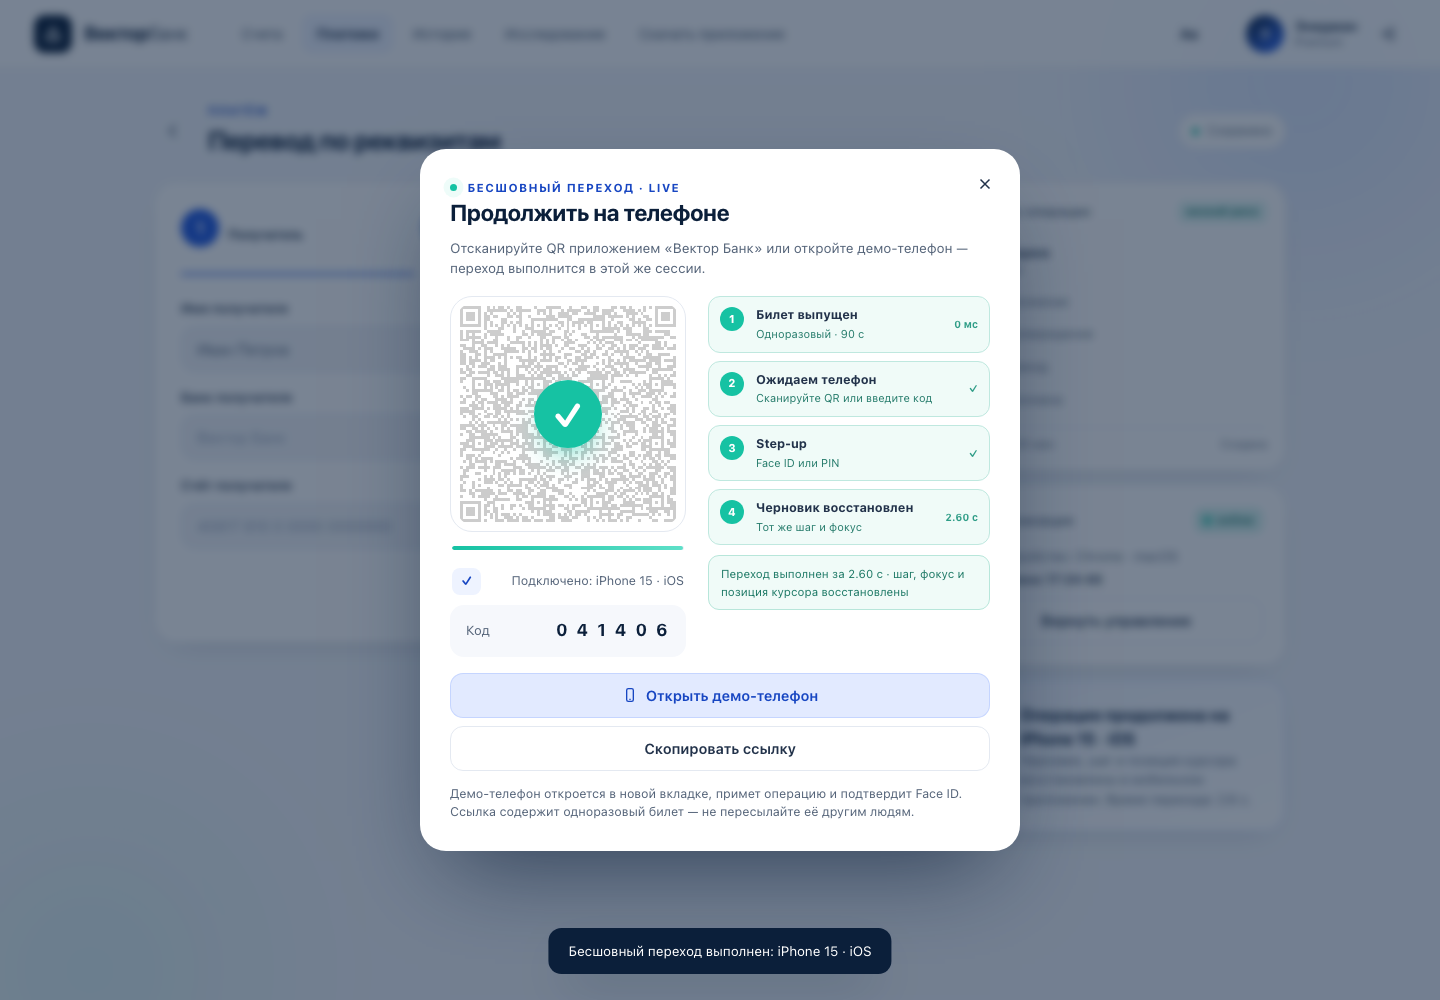
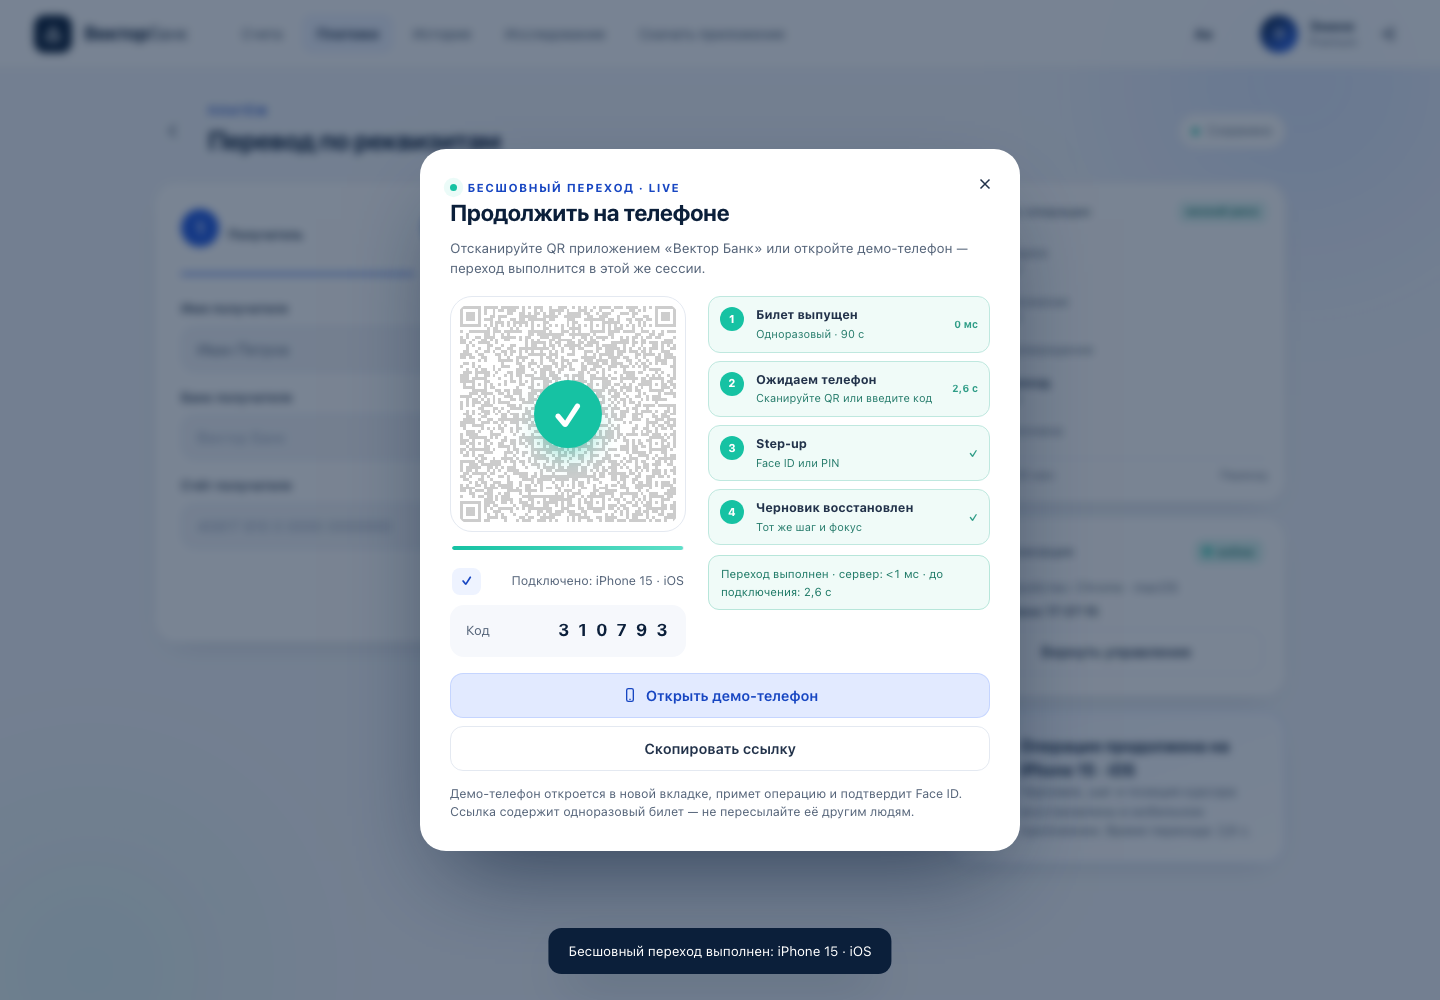
feat(api,web): метрики по частям, стадия «Переход» и состояние демо на диске
- handoff: серверное время подхвата и время до подключения показываются раздельно
- process: WS-события передают processView, карточка и карта процесса обновляются на стадии «Переход»
- store: STATE_FILE — снимок памяти на диск, черновики и сессии переживают рестарт без Redis
- demo.sh: STATE_FILE по умолчанию, .env.example и README обновлены

diff --git a/apps/api/src/store.js b/apps/api/src/store.js
@@ -1,4 +1,6 @@
 import crypto from 'node:crypto';
+import fs from 'node:fs';
+import path from 'node:path';
 import { EventEmitter } from 'node:events';
 import Redis from 'ioredis';
 
@@ -40,8 +42,10 @@ function alive(record) {
 }
 
 class MemoryStore {
-  constructor() {
-    this.kind = 'memory';
+  constructor({ stateFile = '' } = {}) {
+    this.kind = stateFile ? 'memory+disk' : 'memory';
+    this.stateFile = stateFile;
+    this.persistTimer = null;
     this.sessions = new Map();
     this.drafts = new Map();
     this.tickets = new Map();
@@ -65,6 +69,108 @@ class MemoryStore {
         }
       }
     });
+    if (this.stateFile) {
+      this.restoreState();
+      this.wrapPersistence();
+    }
+  }
+
+  /* Демо-персистентность: снимок памяти на диск, чтобы черновики
+     переживали перезапуск без Redis/Docker. */
+  wrapPersistence() {
+    const methods = [
+      'setSession',
+      'putDraft',
+      'putRecipient',
+      'deleteRecipient',
+      'putIdempotency',
+      'putTicket',
+      'consumeTicket',
+      'putCode',
+      'deleteCode',
+      'markRedeemed',
+      'appendAudit',
+      'appendResearch',
+    ];
+    for (const name of methods) {
+      const original = this[name].bind(this);
+      this[name] = (...args) => {
+        const result = original(...args);
+        if (result && typeof result.then === 'function') {
+          return result.then((value) => {
+            this.persistState();
+            return value;
+          });
+        }
+        this.persistState();
+        return result;
+      };
+    }
+  }
+
+  persistState() {
+    if (!this.stateFile || this.persistTimer) return;
+    this.persistTimer = setTimeout(() => {
+      this.persistTimer = null;
+      this.writeState();
+    }, 250);
+    this.persistTimer.unref?.();
+  }
+
+  writeState() {
+    if (!this.stateFile) return;
+    const snapshot = {
+      v: 1,
+      at: new Date().toISOString(),
+      sessions: [...this.sessions],
+      drafts: [...this.drafts],
+      tickets: [...this.tickets],
+      codes: [...this.codes],
+      redeemed: [...this.redeemed],
+      recipients: [...this.recipients],
+      idempotency: [...this.idempotency],
+      audit: this.audit,
+      research: this.research,
+    };
+    try {
+      fs.mkdirSync(path.dirname(this.stateFile), { recursive: true });
+      const tmp = `${this.stateFile}.tmp`;
+      fs.writeFileSync(tmp, JSON.stringify(snapshot));
+      fs.renameSync(tmp, this.stateFile);
+    } catch {
+      /* диск недоступен — демо продолжает работать в памяти */
+    }
+  }
+
+  restoreState() {
+    try {
+      if (!fs.existsSync(this.stateFile)) return;
+      const data = JSON.parse(fs.readFileSync(this.stateFile, 'utf8'));
+      const restore = (key, target) => {
+        const entries = Array.isArray(data[key]) ? data[key] : [];
+        for (const [id, record] of entries) {
+          if (record && (record.exp === 0 || record.exp > now())) target.set(id, record);
+        }
+      };
+      restore('sessions', this.sessions);
+      restore('drafts', this.drafts);
+      restore('tickets', this.tickets);
+      restore('codes', this.codes);
+      restore('redeemed', this.redeemed);
+      restore('recipients', this.recipients);
+      restore('idempotency', this.idempotency);
+      this.audit = Array.isArray(data.audit) ? data.audit : [];
+      this.research = Array.isArray(data.research) ? data.research : [];
+      this.userDrafts = new Map();
+      for (const [id, record] of this.drafts) {
+        const draft = record?.v;
+        if (!draft?.userId) continue;
+        if (!this.userDrafts.has(draft.userId)) this.userDrafts.set(draft.userId, new Set());
+        this.userDrafts.get(draft.userId).add(id);
+      }
+    } catch {
+      /* повреждённый снимок игнорируем — стартуем с чистого состояния */
+    }
   }
 
   async connect() {
@@ -74,6 +180,11 @@ class MemoryStore {
   async close() {
     this.handlers.clear();
     this.bus.removeAllListeners();
+    if (this.persistTimer) {
+      clearTimeout(this.persistTimer);
+      this.persistTimer = null;
+    }
+    this.writeState();
   }
 
   subscribe(handler) {
@@ -510,7 +621,7 @@ class RedisStore {
   }
 }
 
-export async function createStore({ redisUrl, logger } = {}) {
+export async function createStore({ redisUrl, stateFile = '', logger } = {}) {
   if (redisUrl) {
     try {
       const store = await new RedisStore(redisUrl).connect();
@@ -520,6 +631,7 @@ export async function createStore({ redisUrl, logger } = {}) {
       logger?.warn({ err: error.message }, 'redis unavailable, falling back to in-memory store');
     }
   }
-  logger?.info('state store: in-memory (demo mode)');
-  return new MemoryStore().connect();
+  if (stateFile) logger?.info({ stateFile }, 'state store: in-memory + disk snapshot');
+  else logger?.info('state store: in-memory (demo mode)');
+  return new MemoryStore({ stateFile }).connect();
 }

diff --git a/apps/web/app.js b/apps/web/app.js
@@ -974,6 +974,7 @@ function handleEvent(message) {
   const payload = message.payload || {};
   const myDevice = state.session?.deviceId;
   if (message.type === 'draft.updated') {
+    if (payload.process) renderProcess(payload.process);
     const draft = payload.draft;
     if (!draft || draft.id !== state.draft?.id) return;
     state.draft = { ...state.draft, ...draft };
@@ -990,7 +991,9 @@ function handleEvent(message) {
   }
 
   if (message.type === 'handoff.redeemed') {
-    handoffComplete(payload.deviceName);
+    handoffComplete(payload.deviceName, payload.timing || {});
+    if (payload.process) renderProcess(payload.process);
+    loadDrafts();
     const draft = payload.draft;
     if (draft && draft.id === state.draft?.id) {
       state.draft = { ...state.draft, ...draft };
@@ -1103,22 +1106,32 @@ function resetHandoffTimeline() {
   els.modal.querySelector('.modal-card')?.classList.remove('is-complete');
 }
 
-function handoffComplete(deviceName) {
+function handoffComplete(deviceName, timing = {}) {
   if (state.handoffClosing) return;
   state.handoffClosing = true;
   const elapsedMs = state.handoffIssuedAt ? Date.now() - state.handoffIssuedAt : null;
   const elapsedText =
     elapsedMs === null ? '' : elapsedMs < 1000 ? `${Math.round(elapsedMs)} мс` : `${(elapsedMs / 1000).toFixed(2).replace('.', ',')} с`;
+  const syncMs = Number.isFinite(timing?.syncMs) ? Math.max(0, Math.round(timing.syncMs)) : null;
+  const redeemMs = Number.isFinite(timing?.redeemMs) ? Math.max(0, Math.round(timing.redeemMs)) : null;
+  const shortMs = (value) =>
+    value < 1 ? '<1 мс' : value < 1000 ? `${value} мс` : `${(value / 1000).toFixed(1).replace('.', ',')} с`;
   setHandoffPhase('complete');
-  phaseTime('scanned', '✓');
+  phaseTime('scanned', syncMs === null ? '✓' : shortMs(syncMs));
   phaseTime('stepup', '✓');
-  if (elapsedMs !== null) phaseTime('restored', elapsedText);
+  phaseTime('restored', '✓');
   els.handoffStatus.textContent = deviceName ? `Подключено: ${deviceName}` : 'Телефон подключён';
   if (els.handoffTelemetry) {
     els.handoffTelemetry.classList.add('is-done');
-    els.handoffTelemetry.textContent = elapsedMs
-      ? `Переход выполнен за ${elapsedText} · шаг, фокус и позиция курсора восстановлены`
+    const parts = [];
+    if (redeemMs !== null) parts.push(`сервер: ${shortMs(redeemMs)}`);
+    if (syncMs !== null) parts.push(`до подключения: ${shortMs(syncMs)}`);
+    if (elapsedText && syncMs === null) parts.push(`полный цикл: ${elapsedText}`);
+    els.handoffTelemetry.textContent = parts.length
+      ? `Переход выполнен · ${parts.join(' · ')}`
       : 'Переход выполнен · шаг, фокус и позиция курсора восстановлены';
+    els.handoffTelemetry.title =
+      'Сервер — обработка подхвата и восстановления черновика; до подключения — от выпуска билета до Face ID';
   }
   if (els.qrBar) {
     els.qrBar.classList.remove('is-low');
@@ -1160,7 +1173,10 @@ async function checkHandoffStatus() {
   try {
     const data = await api(`/handoff/${state.handoff.ticketId}/status`);
     if (data.status === 'redeemed') {
-      handoffComplete(data.redeemedBy);
+      handoffComplete(data.redeemedBy, {
+        syncMs: data.serverSyncMs,
+        redeemMs: data.serverRedeemMs,
+      });
       toast(`Телефон подключён: ${data.redeemedBy}`);
     }
   } catch {

diff --git a/apps/api/src/app.js b/apps/api/src/app.js
@@ -352,7 +352,11 @@ export async function buildApp(options = {}) {
   });
 
   app.decorate('config', cfg);
-  const store = await createStore({ redisUrl: options.redisUrl ?? cfg.redisUrl, logger: app.log });
+  const store = await createStore({
+    redisUrl: options.redisUrl ?? cfg.redisUrl,
+    stateFile: options.stateFile ?? cfg.stateFile,
+    logger: app.log,
+  });
   app.decorate('store', store);
   const metrics = new Metrics();
   app.decorate('metrics', metrics);
@@ -764,6 +768,7 @@ export async function buildApp(options = {}) {
     await store.publish(auth.sub, 'draft.updated', {
       draft: outcome.draft,
       updatedBy: deviceOf(auth),
+      process: processView(outcome.draft),
     });
     metrics.inc('patches');
     metrics.observeSync(Date.now() - startedAt);
@@ -1036,7 +1041,8 @@ export async function buildApp(options = {}) {
     }
     if (body.code) await store.deleteCode(String(body.code));
 
-    const at = iso();
+    const redeemedAtMs = Date.now();
+    const at = iso(redeemedAtMs);
     const outcome = await store.updateDraft(
       data.opId,
       (draft) => {
@@ -1067,6 +1073,9 @@ export async function buildApp(options = {}) {
       deviceName: auth.deviceName,
       channel: auth.channel,
       at,
+      issuedAt: data.createdAt,
+      syncMs: redeemedAtMs - data.createdAt,
+      redeemMs: redeemedAtMs - startedAt,
     });
     metrics.inc('handoffsRedeemed');
     metrics.observeHandoff(Date.now() - data.createdAt);
@@ -1078,6 +1087,8 @@ export async function buildApp(options = {}) {
       deviceId: auth.deviceId,
       at,
       draft: outcome.draft,
+      process: processView(outcome.draft),
+      timing: { syncMs: redeemedAtMs - data.createdAt, redeemMs: redeemedAtMs - startedAt },
     });
     return {
       draft: draftView(outcome.draft, auth),
@@ -1097,7 +1108,15 @@ export async function buildApp(options = {}) {
     const redeemed = await store.getRedeemed(jti);
     if (redeemed) {
       if (redeemed.userId !== auth.sub) throw new HttpError(403, 'FORBIDDEN', 'Нет доступа');
-      return { status: 'redeemed', redeemedBy: redeemed.deviceName, at: redeemed.at, opId: redeemed.opId };
+      return {
+        status: 'redeemed',
+        redeemedBy: redeemed.deviceName,
+        at: redeemed.at,
+        opId: redeemed.opId,
+        issuedAt: redeemed.issuedAt ? iso(redeemed.issuedAt) : null,
+        serverSyncMs: Number.isFinite(redeemed.syncMs) ? redeemed.syncMs : null,
+        serverRedeemMs: Number.isFinite(redeemed.redeemMs) ? redeemed.redeemMs : null,
+      };
     }
     const ticket = await store.getTicket(jti);
     if (ticket) {

diff --git a/apps/api/src/config.js b/apps/api/src/config.js
@@ -7,6 +7,7 @@ export const config = {
   port: Number(process.env.PORT || 8787),
   host: process.env.HOST || '0.0.0.0',
   redisUrl: process.env.REDIS_URL || '',
+  stateFile: process.env.STATE_FILE || '',
   jwtSecret: process.env.JWT_SECRET || 'dev-only-secret-change-in-production',
   accessTtlSec: Number(process.env.ACCESS_TTL_SEC || 3600),
   ticketTtlSec: Number(process.env.TICKET_TTL_SEC || 90),

diff --git a/README.md b/README.md
@@ -27,6 +27,10 @@
   таб сам входит, подхватывает операцию и подтверждает Face ID: полный цикл проверяется без APK.
 - **Живая телеметрия перехода** — этапы, время каждого шага и итоговая задержка в окне QR;
   прогресс-бар билета, состояние «код истёк», возврат управления.
+- **Раздельные метрики** — «сервер» (обработка подхвата) и «до подключения» (билет → Face ID)
+  считаются отдельно; бизнес-процесс после перехода переходит на стадию «Переход».
+- **Состояние демо переживает рестарт** — без Redis/Docker: `STATE_FILE=.demo-state.json`
+  сохраняет черновики, сессии и билеты на диск (Redis по-прежнему поддерживается).
 - **Раздача для полевого эксперимента**: APK + три QR-кода (лендинг, APK, `/research`) в `dissertation/experiment/раздача/`; публичный деплой на Render.
 
 ## Скриншоты
